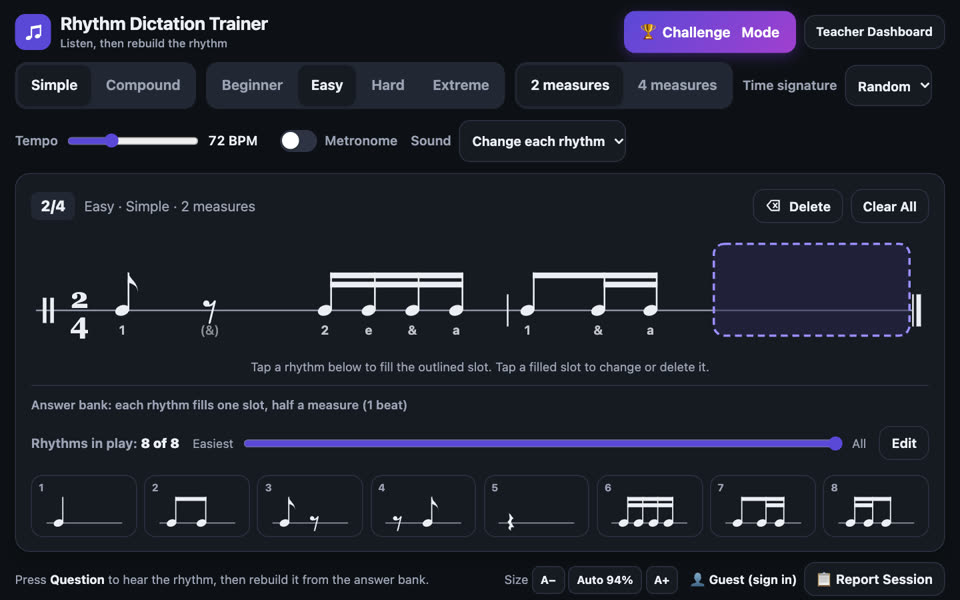
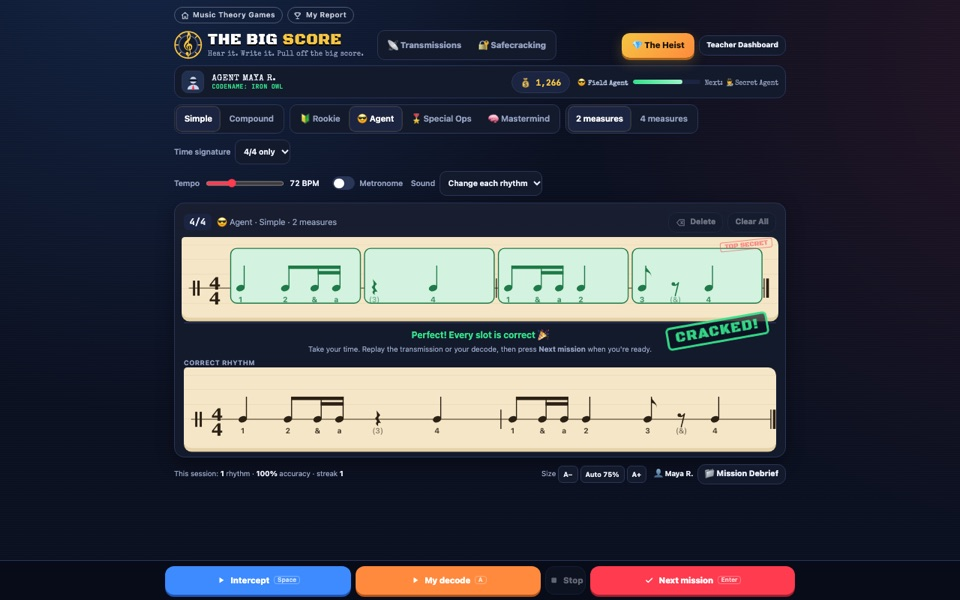
Rename Rhythm Trainer to The Big Score on the home page and My Report

diff --git a/report/index.html b/report/index.html
@@ -241,7 +241,7 @@ const niceDate = k => { const [y, m, d] = k.split('-').map(Number); return new D
 const GAMES = [
   { id: 'rooftop', name: 'Rooftop Runner', acc: '#ff4fa3', url: 'https://drkeyzzz.github.io/rooftop-runner/', col: 'sight_scores', unit: 'notes on time', cheers: ['GOOD JOB!', 'ON FIRE!', 'NAILED IT!'] },
   { id: 'tidal', name: 'Tidal Tones', acc: '#ffc85c', url: 'https://drkeyzzz.github.io/tidal-tones/', col: 'tidal_scores', unit: 'notes named', cheers: ['AWESOME!', 'SMOOTH SAILING!', 'GREAT WORK!'] },
-  { id: 'rhythm', name: 'Rhythm Trainer', acc: '#8b7bff', url: 'https://drkeyzzz.github.io/rhythm-trainer/', col: 'rhythm_scores', unit: 'rhythms right', cheers: ['NICE WORK!', 'GROOVY!', 'IN THE POCKET!'] },
+  { id: 'rhythm', name: 'The Big Score', acc: '#f5c542', url: 'https://drkeyzzz.github.io/rhythm-trainer/', col: 'rhythm_scores', unit: 'rhythms right', cheers: ['CRACKED IT!', 'CLEAN GETAWAY!', 'MASTERMIND!'] },
   { id: 'scale', name: 'Scale Quest', acc: '#3ee8f0', url: 'https://drkeyzzz.github.io/scale-quest/', col: 'scale_scores', unit: 'answers right', cheers: ['WAY TO GO!', 'SCALE STAR!', 'LEVEL UP!'] },
   { id: 'earshot', name: 'Earshot Saloon', acc: '#ff9a4a', url: 'https://drkeyzzz.github.io/earshot-saloon/', col: 'earshot_scores', unit: 'intervals right', cheers: ['YEEHAW!', 'SHARP EARS!', 'SHERIFF STAR!'] },
 ];

diff --git a/index.html b/index.html
@@ -132,7 +132,7 @@
     border-radius: 999px;
   }
   .tidal   { --accent: #ffc85c; --shot-bg: #0c1a23; }
-  .rhythm  { --accent: #8b7bff; --shot-bg: #0d1015; }
+  .rhythm  { --accent: #f5c542; --shot-bg: #0b1020; }
   .scale   { --accent: #3ee8f0; --shot-bg: #0e0a25; }
   .rooftop { --accent: #ff4fa3; --shot-bg: #121025; }
   .earshot { --accent: #ff9a4a; --shot-bg: #1a120c; }
@@ -239,11 +239,11 @@
     </a>
 
     <a class="game rhythm" href="https://drkeyzzz.github.io/rhythm-trainer/">
-      <div class="shot"><img src="screenshots/rhythm-trainer.jpg" alt="Rhythm Dictation Trainer: rebuilding a rhythm from the answer bank"></div>
+      <div class="shot"><img src="screenshots/rhythm-trainer.jpg" alt="The Big Score: a spy game for rhythmic and melodic dictation"></div>
       <div class="info">
         <div>
-          <p class="name">Rhythm Trainer</p>
-          <p class="desc">Rhythmic dictation</p>
+          <p class="name">The Big Score</p>
+          <p class="desc">Rhythm &amp; melody dictation heist</p>
         </div>
         <span class="play">Play</span>
       </div>
